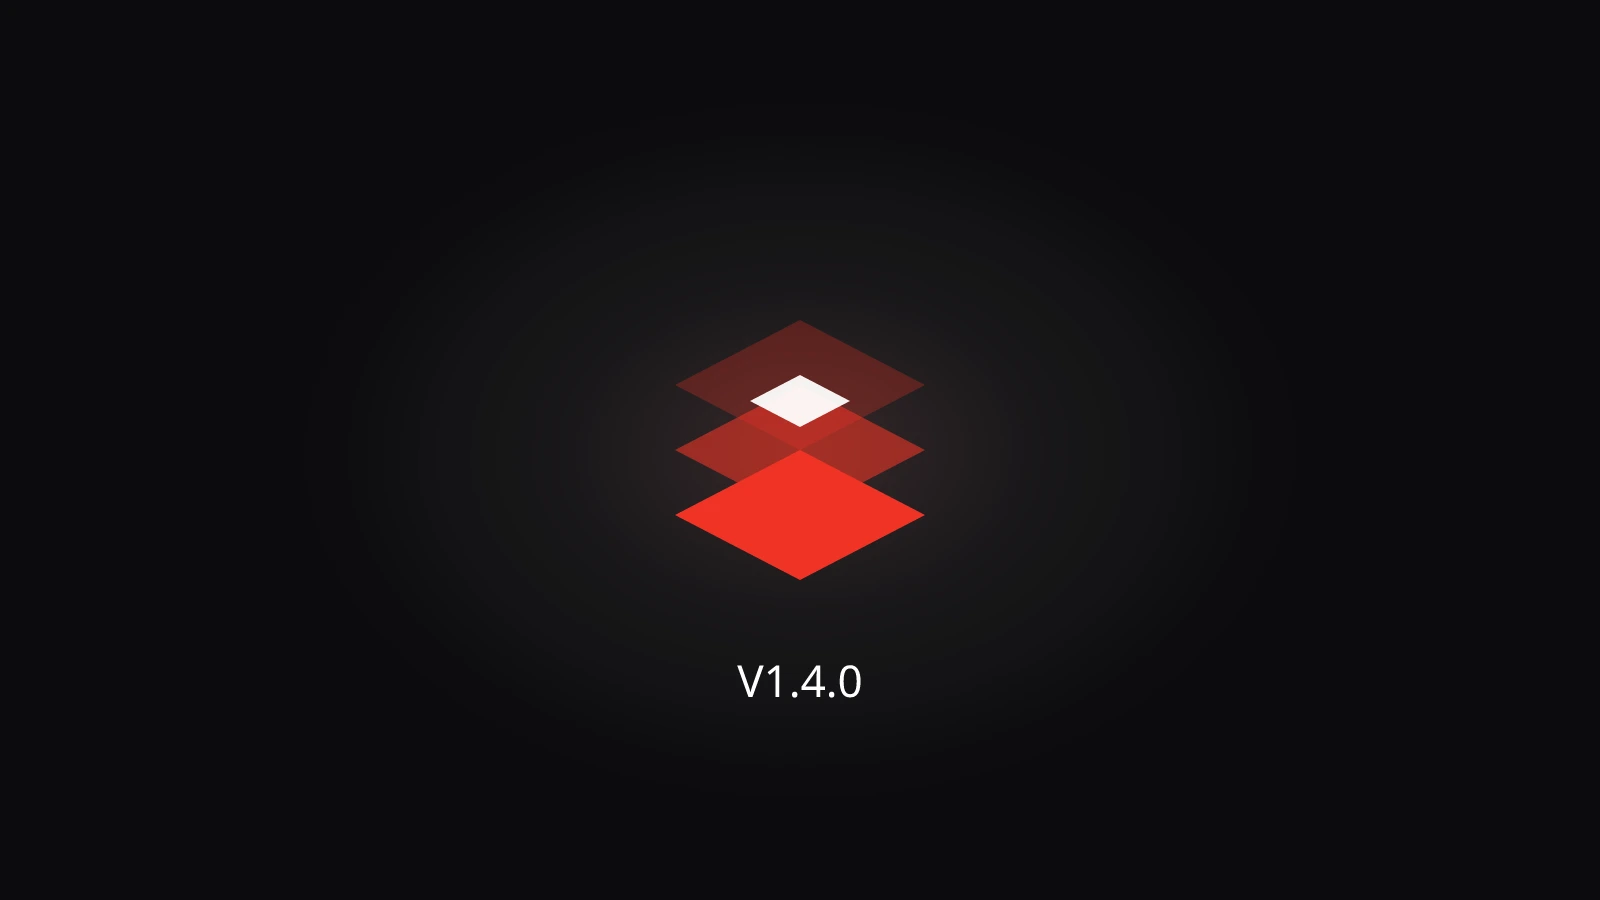
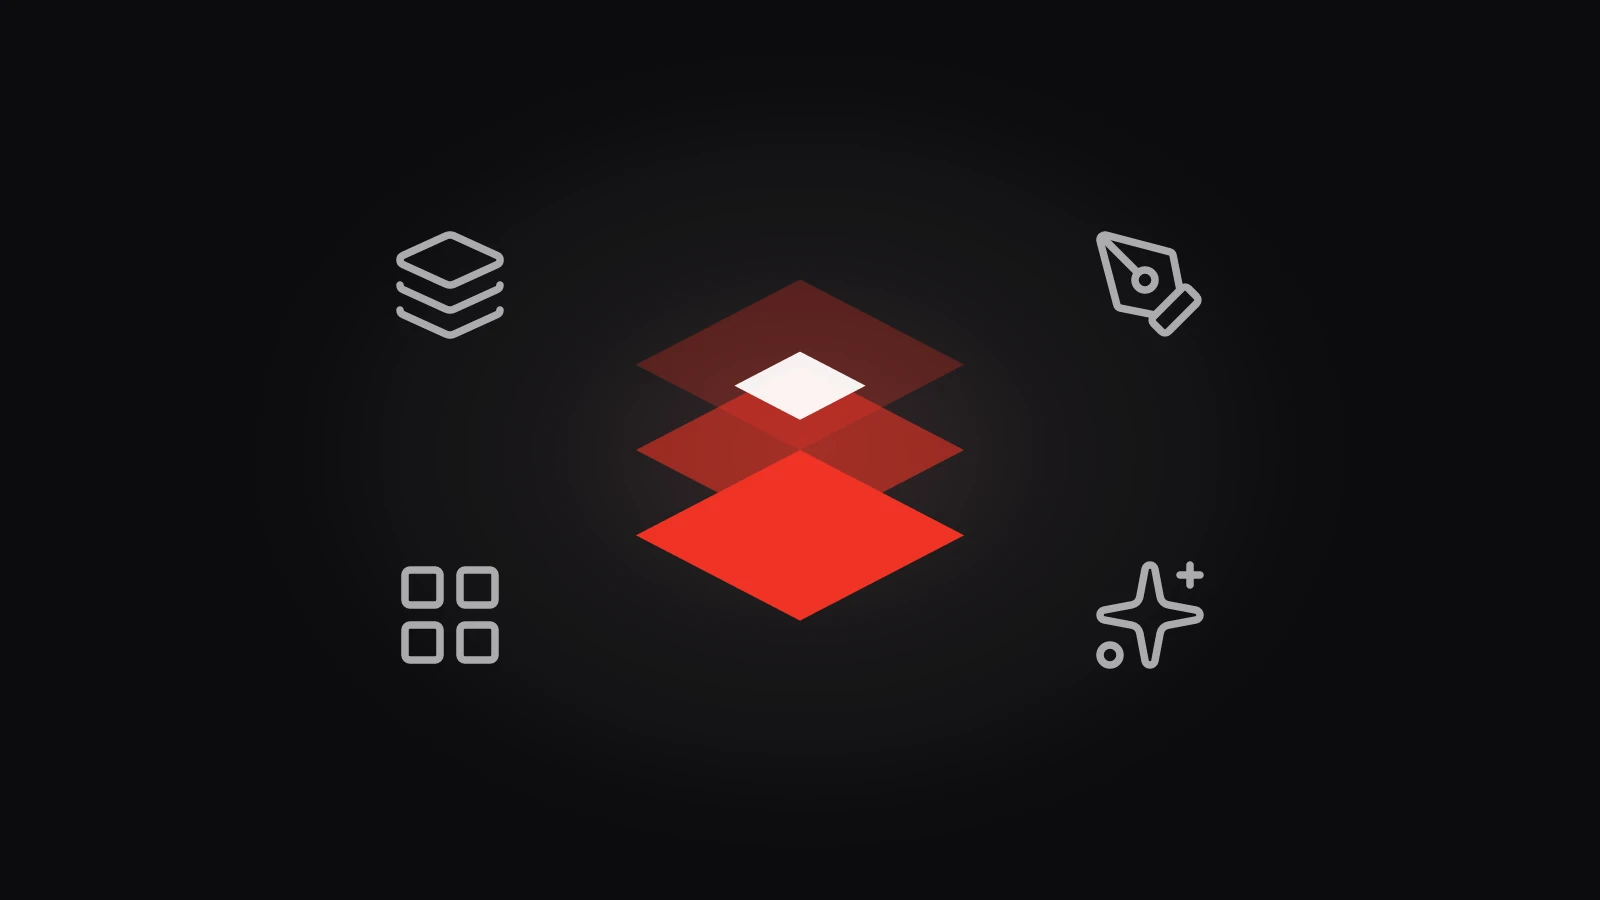
Replace versioned Assemblash graphics with version-free ones
- New page graphic composed in Assemblash 1.8.0: layered mark with
  layer, grid, pen and sparkle icons on dark, no version text
- Home card thumbnail rebuilt without the V1.4.0 label
- Caption, alt and open-link text no longer mention a version

diff --git a/assets/js/translations/project-assemblash.js b/assets/js/translations/project-assemblash.js
@@ -31,10 +31,10 @@
             en: "The idea started when I needed to work on a design away from home, without my laptop or GIMP in front of me. Canva was there, but it is closed source and a few of the features I wanted sat behind a paid plan. I also could not find anything where my AI agents could put together a first draft that was still editable afterwards. So I built Assemblash. An agent can work on another machine and send me a project, I fine-tune it, copy it to my laptop and export it again, without starting over from prompts or being handed a flat image.", pt: "A ideia começou quando precisei de trabalhar num design fora de casa, sem o portátil nem o GIMP à minha frente. O Canva estava ali, mas é closed source e algumas das funcionalidades que eu queria estavam atrás de um plano pago. Também não encontrei nada onde os meus agentes de IA pudessem montar um primeiro rascunho que continuasse editável depois. Por isso construí o Assemblash. Um agente trabalha noutra máquina e envia-me um projeto, eu afino-o, copio-o para o portátil e exporto outra vez, sem recomeçar a partir de prompts nem ficar com uma imagem achatada nas mãos.", lu: "D'Iddi ass entstan, wéi ech ausserhalb vun doheem un engem Design schaffe wollt, ouni mäi Laptop oder GIMP virun mir. Canva war do, mä et ass closed source an e puer vun de Funktiounen, déi ech wollt, waren hannert engem bezuelte Plang. Ech hunn och näischt fonnt, wou meng AI-Agenten en éischten Entworf zesumme setze kéinten, dee duerno nach editéierbar bleift. Also hunn ech Assemblash gebaut. En Agent schafft op enger anerer Maschinn a schéckt mer e Projet, ech feilen drun, kopéieren en op mäi Laptop an exportéieren en nach eng Kéier, ouni vu Prompten nei unzefänken oder mat engem flaache Bild dozestoen.", de: "Die Idee entstand, als ich außer Haus an einem Design arbeiten wollte, ohne Laptop oder GIMP vor mir. Canva war da, aber es ist closed source und ein paar der Funktionen, die ich wollte, steckten hinter einem Bezahlplan. Ich habe auch nichts gefunden, wo meine KI-Agenten einen ersten Entwurf bauen können, der danach noch bearbeitbar bleibt. Also habe ich Assemblash gebaut. Ein Agent arbeitet auf einer anderen Maschine und schickt mir ein Projekt, ich feile daran, kopiere es auf meinen Laptop und exportiere es erneut, ohne bei den Prompts neu anzufangen oder mit einem flachen Bild dazustehen.", fr: "L’idée est venue quand j’ai eu besoin de travailler sur un visuel loin de chez moi, sans mon portable ni GIMP devant moi. Canva était là, mais c’est du closed source et quelques fonctions que je voulais étaient derrière un plan payant. Je n’ai pas non plus trouvé d’outil où mes agents IA pouvaient préparer un premier brouillon qui reste modifiable ensuite. Alors j’ai construit Assemblash. Un agent travaille sur une autre machine et m’envoie un projet, je le peaufine, je le copie sur mon portable et je l’exporte de nouveau, sans repartir des prompts ni me retrouver avec une image aplatie."
         },
         "project.assemblash.figure.caption": {
-            en: "The v1.4.0 project graphic was composed in Assemblash. I keep the editable project here as a real example.", pt: "O gráfico do projeto v1.4.0 foi composto no Assemblash. Guardo aqui o projeto editável como exemplo real.", lu: "D'v1.4.0-Projetgrafik gouf am Assemblash komponéiert. Ech halen den editéierbare Projet hei als richtegt Beispill.", de: "Die v1.4.0-Projektgrafik wurde in Assemblash gebaut. Das bearbeitbare Projekt liegt hier als echtes Beispiel.", fr: "Le visuel du projet v1.4.0 a été composé dans Assemblash. Je garde ici le projet modifiable comme exemple réel."
+            en: "This project graphic was composed in Assemblash. I keep the editable project here as a real example.", pt: "Este gráfico do projeto foi composto no Assemblash. Guardo aqui o projeto editável como exemplo real.", lu: "Dës Projetgrafik gouf am Assemblash komponéiert. Ech halen den editéierbare Projet hei als richtegt Beispill.", de: "Diese Projektgrafik wurde in Assemblash gebaut. Das bearbeitbare Projekt liegt hier als echtes Beispiel.", fr: "Ce visuel du projet a été composé dans Assemblash. Je garde ici le projet modifiable comme exemple réel."
         },
         "project.assemblash.figure.open": {
-            en: "Open the Assemblash v1.4.0 project image", pt: "Abrir a imagem do projeto Assemblash v1.4.0", lu: "D'Bild vum Assemblash-v1.4.0-Projet opmaachen", de: "Das Bild des Assemblash-v1.4.0-Projekts öffnen", fr: "Ouvrir l’image du projet Assemblash v1.4.0"
+            en: "Open the Assemblash project graphic", pt: "Abrir o gráfico do projeto Assemblash", lu: "D'Assemblash-Projetgrafik opmaachen", de: "Die Assemblash-Projektgrafik öffnen", fr: "Ouvrir le visuel du projet Assemblash"
         },
         "project.assemblash.technical.motivation.title": {
             en: "The handoff problem", pt: "O problema da passagem de trabalho", lu: "De Problem beim Iwwerginn", de: "Das Übergabeproblem", fr: "Le problème de transmission"

diff --git a/projects/project-assemblash.html b/projects/project-assemblash.html
@@ -570,10 +570,10 @@
                     </div>
 
                     <figure style="margin: 2rem 0;">
-                        <a class="assemblash-figure-link" href="../assets/img/projects/assemblash/assemblash-reveal.webp" target="_blank" rel="noopener noreferrer" onclick="openImageModal('../assets/img/projects/assemblash/assemblash-reveal.webp', 'Assemblash v1.4.0 project image, created with Assemblash'); return false;" data-i18n-title="project.assemblash.figure.open" title="Open the Assemblash v1.4.0 project image" aria-label="Open the Assemblash v1.4.0 project image">
-                            <img src="../assets/img/projects/assemblash/assemblash-reveal.webp" width="1600" height="900" loading="lazy" alt="Assemblash v1.4.0 project image, created with Assemblash" style="display: block; width: 100%; height: auto; border: 1px solid var(--border-color);">
+                        <a class="assemblash-figure-link" href="../assets/img/projects/assemblash/assemblash-reveal.webp" target="_blank" rel="noopener noreferrer" onclick="openImageModal('../assets/img/projects/assemblash/assemblash-reveal.webp', 'Assemblash layered mark surrounded by layer, grid, pen and sparkle icons, composed in Assemblash'); return false;" data-i18n-title="project.assemblash.figure.open" title="Open the Assemblash project graphic" aria-label="Open the Assemblash project graphic">
+                            <img src="../assets/img/projects/assemblash/assemblash-reveal.webp" width="1600" height="900" loading="lazy" alt="Assemblash layered mark surrounded by layer, grid, pen and sparkle icons, composed in Assemblash" style="display: block; width: 100%; height: auto; border: 1px solid var(--border-color);">
                         </a>
-                        <figcaption style="margin-top: 0.75rem; color: var(--text-secondary);" data-i18n="project.assemblash.figure.caption">The v1.4.0 project graphic was composed in Assemblash. I keep the editable project here as a real example.</figcaption>
+                        <figcaption style="margin-top: 0.75rem; color: var(--text-secondary);" data-i18n="project.assemblash.figure.caption">This project graphic was composed in Assemblash. I keep the editable project here as a real example.</figcaption>
                     </figure>
 
                     <div class="tech-only">
